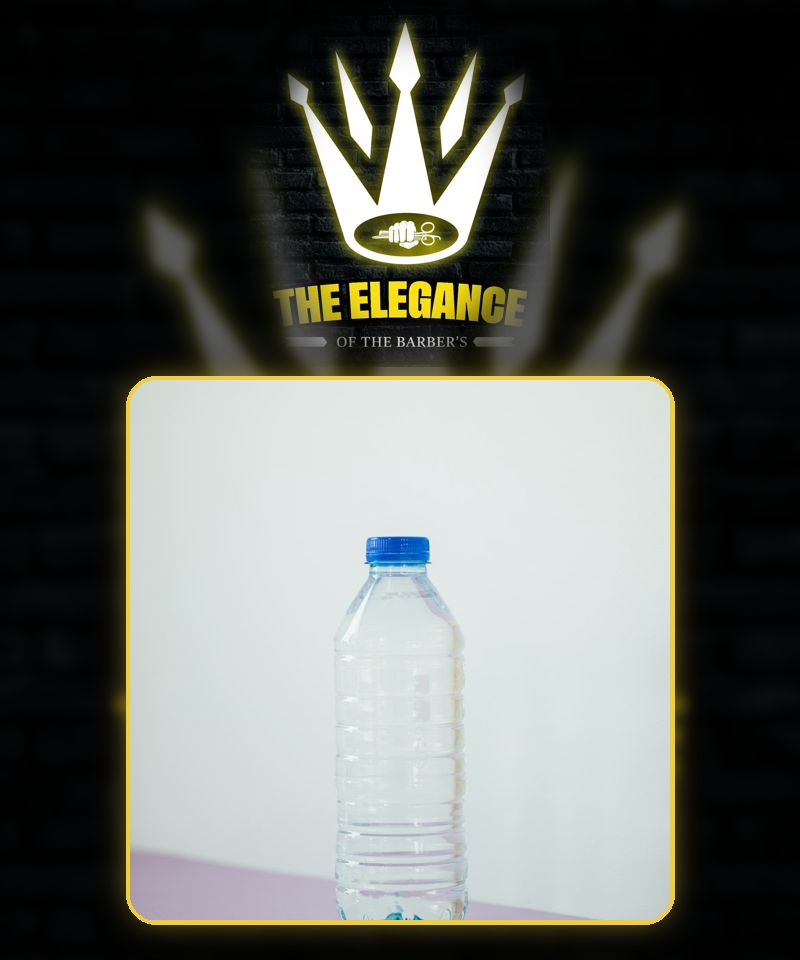
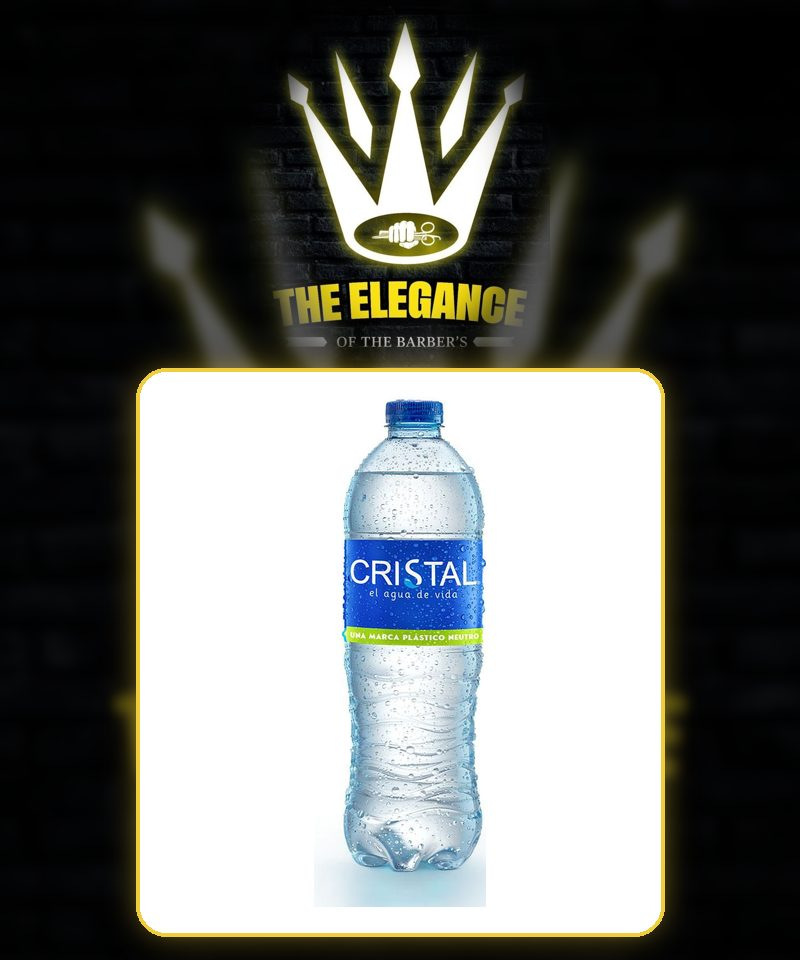
Empaques reales en snacks y bebidas, y adicionales al reservar

diff --git a/js/public.js b/js/public.js
@@ -2,8 +2,8 @@
 import {
   sb, State, $, $$, esc, safeUrl, money, priceLabel, durLabel, DAYS, DAYS_SHORT, todayYmd, addDays, mondayOf, weekday,
   fmtDay, fmtTime, fmtDate, hhmm, ymd, friendly, toast, loader, emptyState, busy, scheduleByDay, barberWorkDays, waLink, setMsg,
-  mapAllowed, consentChecks, consentMissing, logConsent, loadProfile, formData
-} from "./core.js?v=20261102a";
+  mapAllowed, consentChecks, consentMissing, logConsent, loadProfile, formData, extrasText, extrasTotal
+} from "./core.js?v=20261102b";
 
 const N = () => State.settings.negocio || {};
 const R = () => State.settings.reservas || {};
@@ -121,7 +121,7 @@ export function viewHome() {
       <p class="muted rv" style="margin:-8px 0 22px">Snacks y bebidas para disfrutar en la barbería. Se pagan allá, junto con tu servicio.</p>
       <div class="chips rv" role="group" aria-label="Filtrar productos"><button type="button" class="chip is-on" data-cat-filter="" aria-pressed="true">Todos</button>${Object.keys(SHOP).map((c) => `<button type="button" class="chip" data-cat-filter="${c}" aria-pressed="false">${c}</button>`).join("")}</div>
       <ul class="catalog">${Object.entries(SHOP).flatMap(([cat, items]) => items.map(([name, price, img]) => [cat, name, price, img])).map(([cat, name, price, img], k) => `<li class="rv" style="--i:${k % 4}" data-cat="${cat}"><div class="cat-card cat-card--shop">
-        <figure class="cat-card__img"><img src="assets/tienda/${img}.jpg" alt="${esc(name)}" loading="lazy"><span class="cat-card__tag">${cat}</span></figure>
+        <figure class="cat-card__img"><img src="assets/tienda/${img}.jpg?v=2" alt="${esc(name)}" loading="lazy"><span class="cat-card__tag">${cat}</span></figure>
         <div class="cat-card__body"><h4>${esc(name)}</h4><div class="cat-card__foot"><span class="cat-card__price">${money(price)}</span></div></div></div></li>`).join("")}</ul>
     </div>
   </section>
@@ -464,13 +464,32 @@ export function mountBooking() {
         <label class="field"><span>Celular / WhatsApp</span><input name="phone" type="tel" required minlength="7" maxlength="30" autocomplete="tel" inputmode="tel" value="${esc(p.phone || "")}"></label></div>
       <label class="field"><span>Nota para el barbero (opcional)</span>
         <textarea name="notes" maxlength="500" rows="2" placeholder="Ej.: quiero mantener el largo arriba">${esc(b.notes || "")}</textarea></label>
+      ${extrasPicker(b.extras || {})}
       <p class="muted small">Cuenta: <strong>${esc(State.user.email)}</strong>. El pago se hace en la barbería.</p>
       ${consentChecks()}
       <button class="btn btn--lg btn--block" type="submit" data-busy="Confirmando…">Confirmar cita</button>
       <p class="form-msg" id="confirmMsg" role="alert"></p></form>`;
   }
 
+  // Adicionales: {nombre: cantidad} en la reserva guardada; se actualiza en el sitio para no borrar lo que ya se escribió.
+  const SHOP_ITEMS = Object.values(SHOP).flat();
+  const exTotal = (ex) => { const t = SHOP_ITEMS.reduce((s, [n, p]) => s + (ex[n] || 0) * p, 0); return t ? `Adicionales: <strong>${money(t)}</strong> · se pagan en la barbería` : ""; };
+  function extrasPicker(ex) {
+    return `<details class="extras" ${Object.keys(ex).length ? "open" : ""}><summary>¿Deseas algún adicional? <span class="muted small">Snacks y bebidas para después del corte</span></summary>
+      <ul class="extras__list">${SHOP_ITEMS.map(([n, p, img]) => `<li><span class="extras__pic"><img src="assets/tienda/${img}.jpg?v=2" alt="" loading="lazy"></span><span class="extras__name">${esc(n)}<small>${money(p)}</small></span>
+        <span class="qty"><button type="button" data-x="${esc(n)}" data-d="-1" aria-label="Quitar ${esc(n)}" ${ex[n] ? "" : "disabled"}>−</button><b aria-live="polite">${ex[n] || 0}</b><button type="button" data-x="${esc(n)}" data-d="1" aria-label="Agregar ${esc(n)}">+</button></span></li>`).join("")}</ul>
+      <p class="extras__total" id="exTotal">${exTotal(ex)}</p></details>`;
+  }
+
   steps.addEventListener("click", (e) => {
+    const x = e.target.closest("[data-x]");
+    if (x) {
+      const ex = { ...(Booking.get().extras || {}) }, n = x.dataset.x, li = x.closest("li");
+      ex[n] = Math.min(10, Math.max(0, (ex[n] || 0) + +x.dataset.d)); if (!ex[n]) delete ex[n];
+      Booking.set({ extras: ex });
+      $("b", li).textContent = ex[n] || 0; $("[data-d='-1']", li).disabled = !ex[n]; $("#exTotal").innerHTML = exTotal(ex);
+      return;
+    }
     const o = e.target.closest("[data-open]");
     if (o) return go(+o.dataset.open);
     const s = e.target.closest("[data-svc]");
@@ -498,6 +517,8 @@ export function mountBooking() {
         if (/HORARIO_OCUPADO|ANTICIPACION|BLOQUEADO|FUERA_DE_HORARIO/.test(error.message)) { Booking.set({ start: null }); toast(friendly(error), "err"); go(null); }
         return;
       }
+      const extras = SHOP_ITEMS.filter(([n]) => b.extras?.[n]).map(([n, p]) => ({ n, q: b.extras[n], p }));
+      if (extras.length) { const { error: xe } = await sb.rpc("set_appointment_extras", { p_id: data, p_extras: extras }); if (xe) toast("Tu cita quedó reservada, pero no pudimos guardar los adicionales. Pídelos en la barbería.", "err"); }
       Booking.clear();
       location.hash = `#/reserva/${data}`;
     });
@@ -520,6 +541,7 @@ export async function viewBooked(id) {
         <div><dt>Servicio</dt><dd>${esc(a.service_name)} · ${durLabel(a.duration_min)}</dd></div>
         <div><dt>Barbero</dt><dd>${esc(a.barber_name)}</dd></div>
         <div><dt>Precio</dt><dd>${priceLabel(a.price)}</dd></div>
+        ${a.extras?.length ? `<div><dt>Adicionales</dt><dd>${esc(extrasText(a.extras))} · ${money(extrasTotal(a.extras))}</dd></div>` : ""}
         ${N().direccion ? `<div><dt>Lugar</dt><dd>${esc(N().direccion)}</dd></div>` : ""}
       </dl>
     </div>

diff --git a/js/app.js b/js/app.js
@@ -1,8 +1,8 @@
 /* Arranque y enrutador (#/ruta). Las rutas privadas se validan aquí y, sobre todo, en RLS. */
-import { CONFIGURED, sb, State, $, esc, safeUrl, loader, emptyState, friendly, loadPublic, loadProfile, isAdmin, waLink, cookieChoice, setCookieChoice } from "./core.js?v=20261102a";
-import { viewLegal } from "./legal.js?v=20261102a";
-import { viewHome, mountHome, viewBooking, mountBooking, viewBooked } from "./public.js?v=20261102a";
-import { viewAccount, processAuthLink, Recovery } from "./account.js?v=20261102a";
+import { CONFIGURED, sb, State, $, esc, safeUrl, loader, emptyState, friendly, loadPublic, loadProfile, isAdmin, waLink, cookieChoice, setCookieChoice } from "./core.js?v=20261102b";
+import { viewLegal } from "./legal.js?v=20261102b";
+import { viewHome, mountHome, viewBooking, mountBooking, viewBooked } from "./public.js?v=20261102b";
+import { viewAccount, processAuthLink, Recovery } from "./account.js?v=20261102b";
 
 const app = $("#app");
 let seq = 0;
@@ -99,7 +99,7 @@ async function render() {
     if (route === "admin") {
       if (!State.user) { location.hash = "#/cuenta?volver=admin"; return; }
       if (!isAdmin()) html = `<section class="wrap narrow">${emptyState("No tienes permisos de administrador.", "Esta sección es solo para el equipo de la barbería.", `<a class="btn" href="#/">Ir al inicio</a>`)}</section>`;
-      else { const inPanel = $(".adm"); if (inPanel) inPanel.classList.add("is-busy"); else app.innerHTML = loader("Cargando panel…"); const Admin = await import("./admin.js?v=20261102a"); if (my !== seq) return; ({ html, mount } = await Admin.view(a || "resumen", b, query)); }
+      else { const inPanel = $(".adm"); if (inPanel) inPanel.classList.add("is-busy"); else app.innerHTML = loader("Cargando panel…"); const Admin = await import("./admin.js?v=20261102b"); if (my !== seq) return; ({ html, mount } = await Admin.view(a || "resumen", b, query)); }
     } else if (route === "" || route === "inicio") { html = viewHome(); mount = mountHome; }
     else if (route === "legal") html = viewLegal(a);
     else if (route === "reservar") { html = viewBooking(query); mount = mountBooking; }

diff --git a/js/admin.js b/js/admin.js
@@ -2,8 +2,8 @@
 import {
   sb, State, $, $$, esc, safeUrl, money, priceLabel, durLabel, DAYS, DAYS_SHORT, todayYmd, addDays, mondayOf, weekday, ymd, toIso, hhmm,
   fmtTime, fmtDate, fmtDay, fmtDateTime, minutes, fromMinutes, shortTime, STATUS, statusBadge, friendly, toast, loader, emptyState,
-  formData, setMsg, busy, modal, confirmDialog, uploadImage, loadPublic, isAdmin
-} from "./core.js?v=20261102a";
+  formData, setMsg, busy, modal, confirmDialog, uploadImage, loadPublic, isAdmin, extrasText, extrasTotal
+} from "./core.js?v=20261102b";
 
 const SECTIONS = [
   ["resumen", "Resumen"], ["agenda", "Agenda"], ["citas", "Citas"], ["servicios", "Servicios"], ["barberos", "Barberos"],
@@ -317,6 +317,7 @@ async function apptDetail(id) {
       <dt>Hora</dt><dd>${fmtTime(a.starts_at)} – ${fmtTime(a.ends_at)}</dd>
       <dt>Contacto</dt><dd>${a.client_phone ? `<a href="tel:${esc(a.client_phone.replace(/[^\d+]/g, ""))}">${esc(a.client_phone)}</a> · <a href="https://wa.me/${esc(waNum(a.client_phone))}" target="_blank" rel="noopener">WhatsApp</a>` : "—"}${a.client_email ? ` · ${esc(a.client_email)}` : ""}${a.client_id ? ` · <a href="#/admin/clientes/${a.client_id}" data-close>ver cliente</a>` : " · sin cuenta"}</dd>
       <dt>Origen</dt><dd>${a.source === "admin" ? "Creada por administración" : "Reserva web"} · ${esc(fmtDateTime(a.created_at))}</dd>
+      ${a.extras?.length ? `<dt>Adicionales</dt><dd>${esc(extrasText(a.extras))} · <strong>${money(extrasTotal(a.extras))}</strong></dd>` : ""}
       ${a.client_notes ? `<dt>Nota del cliente</dt><dd>${esc(a.client_notes)}</dd>` : ""}
       ${a.status === "pendiente" && a.pending_expires_at ? `<dt>Se libera</dt><dd>${esc(fmtDateTime(a.pending_expires_at))} si no se confirma</dd>` : ""}
       ${a.cancel_reason ? `<dt>Cancelación</dt><dd>${esc(a.cancel_reason)}${a.cancelled_at ? ` · ${esc(fmtDateTime(a.cancelled_at))}` : ""}</dd>` : ""}

diff --git a/css/styles.css b/css/styles.css
@@ -733,3 +733,18 @@ td .muted { font-size: .8rem; }
 .cat-card--shop .cat-card__img { aspect-ratio: 5 / 6; }
 .cat-card--shop .cat-card__img img { filter: none; }
 .cat-card--shop .cat-card__foot { justify-content: flex-start; }
+
+/* Adicionales en la reserva */
+.extras{border:1px solid rgba(20,19,18,.15);border-radius:12px;padding:12px 14px}
+.extras summary{cursor:pointer;font-weight:700;display:flex;flex-wrap:wrap;gap:4px 10px;align-items:baseline}
+.extras__list{list-style:none;margin:12px 0 0;padding:0;display:grid;grid-template-columns:repeat(auto-fill,minmax(250px,1fr));gap:8px;max-height:360px;overflow:auto}
+.extras__list li{display:flex;align-items:center;gap:10px;padding:6px;border-radius:10px;background:rgba(20,19,18,.04)}
+.extras__pic{width:48px;height:52px;overflow:hidden;border-radius:6px;flex:none;position:relative;background:#fff}
+.extras__pic img{position:absolute;width:74px;height:89px;max-width:none;left:-13px;top:-34px}   /* muestra solo el panel blanco con el empaque */
+.extras__name{flex:1;font-size:.9rem;line-height:1.25}
+.extras__name small{display:block;color:var(--muted,#6b665f)}
+.qty{display:flex;align-items:center;gap:6px}
+.qty button{width:32px;height:32px;border-radius:50%;border:1px solid currentColor;background:none;font-size:1.1rem;cursor:pointer;color:inherit}
+.qty button:disabled{opacity:.3;cursor:default}
+.qty b{min-width:1.2em;text-align:center}
+.extras__total{margin:10px 0 0}

diff --git a/js/core.js b/js/core.js
@@ -1,6 +1,6 @@
 /* Núcleo compartido: conexión, estado, utilidades de fecha (America/Bogota), errores y UI básica. */
 import { createClient } from "https://cdn.jsdelivr.net/npm/@supabase/supabase-js@2.49.4/+esm";
-import { SUPABASE_URL, SUPABASE_ANON_KEY } from "./config.js?v=20261102a";
+import { SUPABASE_URL, SUPABASE_ANON_KEY } from "./config.js?v=20261102b";
 
 export const CONFIGURED = Boolean(SUPABASE_URL && SUPABASE_ANON_KEY);
 export const sb = CONFIGURED
@@ -59,6 +59,8 @@ export const safeUrl = (u) => (/^(https?:|mailto:|tel:)/i.test(String(u || "").t
 
 export const money = (v) => v == null || v === "" ? null
   : new Intl.NumberFormat("es-CO", { style: "currency", currency: "COP", maximumFractionDigits: 0 }).format(Number(v));
+export const extrasText = (x) => (x || []).map((e) => `${e.q}× ${e.n}`).join(", ");   // adicionales [{n,q,p}] de una cita
+export const extrasTotal = (x) => (x || []).reduce((t, e) => t + e.q * e.p, 0);
 export const priceLabel = (v) => money(v) ?? "Precio por confirmar";
 export const durLabel = (m) => m >= 60 ? `${Math.floor(m / 60)} h${m % 60 ? ` ${m % 60} min` : ""}` : `${m} min`;
 

diff --git a/index.html b/index.html
@@ -9,12 +9,12 @@
   <link rel="preconnect" href="https://fonts.googleapis.com">
   <link rel="preconnect" href="https://fonts.gstatic.com" crossorigin>
   <link rel="stylesheet" href="https://fonts.googleapis.com/css2?family=Archivo:ital,wdth,wght@0,62..125,100..900;1,62..125,100..900&display=swap">
-  <link rel="stylesheet" href="css/styles.css?v=20261102a">
+  <link rel="stylesheet" href="css/styles.css?v=20261102b">
   <link rel="icon" href="assets/favicon.png" type="image/png">
 </head>
 <body>
   <div id="app"></div>
   <noscript>Esta web necesita JavaScript para reservar citas.</noscript>
-  <script type="module" src="js/app.js?v=20261102a"></script>
+  <script type="module" src="js/app.js?v=20261102b"></script>
 </body>
 </html>

diff --git a/js/account.js b/js/account.js
@@ -2,8 +2,8 @@
 import {
   sb, State, SITE_URL, $, esc, friendly, toast, loader, emptyState, busy, setMsg, formData, confirmDialog, modal,
   fmtDate, fmtTime, durLabel, priceLabel, statusBadge, ymd, loadProfile, waLink, consentChecks, consentMissing, logConsent
-} from "./core.js?v=20261102a";
-import { mountSlotPicker } from "./public.js?v=20261102a";
+} from "./core.js?v=20261102b";
+import { mountSlotPicker } from "./public.js?v=20261102b";
 
 const back = (q) => (q.volver === "reservar" ? "#/reservar" : "#/cuenta");
 const R = () => State.settings.reservas || {};

diff --git a/js/legal.js b/js/legal.js
@@ -1,5 +1,5 @@
 /* Documentos legales (Colombia): términos, privacidad (Ley 1581 de 2012), cookies y reembolsos (Ley 1480 de 2011). */
-import { State, esc, safeUrl, waLink, LEGAL_VERSION } from "./core.js?v=20261102a";
+import { State, esc, safeUrl, waLink, LEGAL_VERSION } from "./core.js?v=20261102b";
 
 const PEND = `<em class="is-pending">pendiente de completar en Admin → Configuración</em>`;
 function who() {
